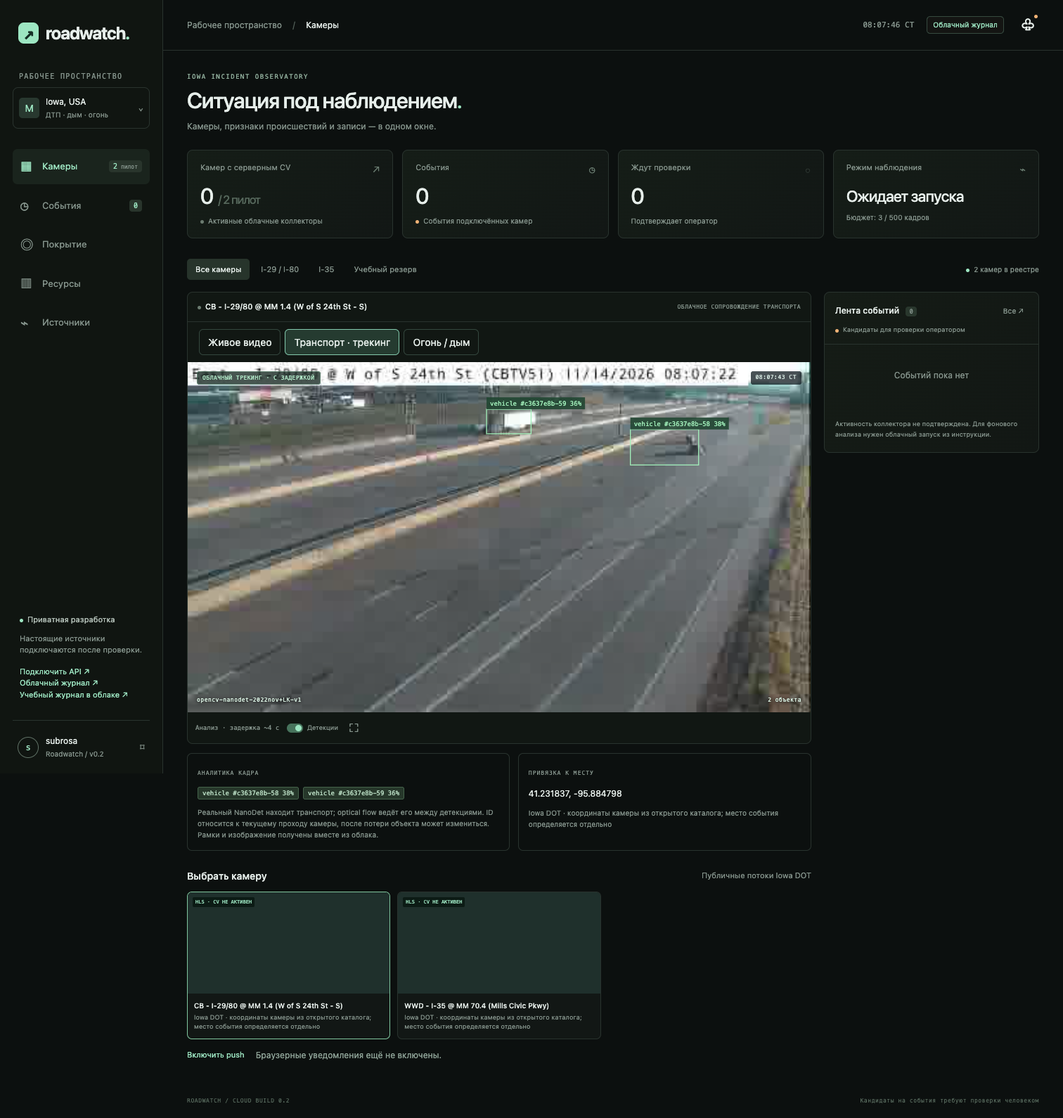
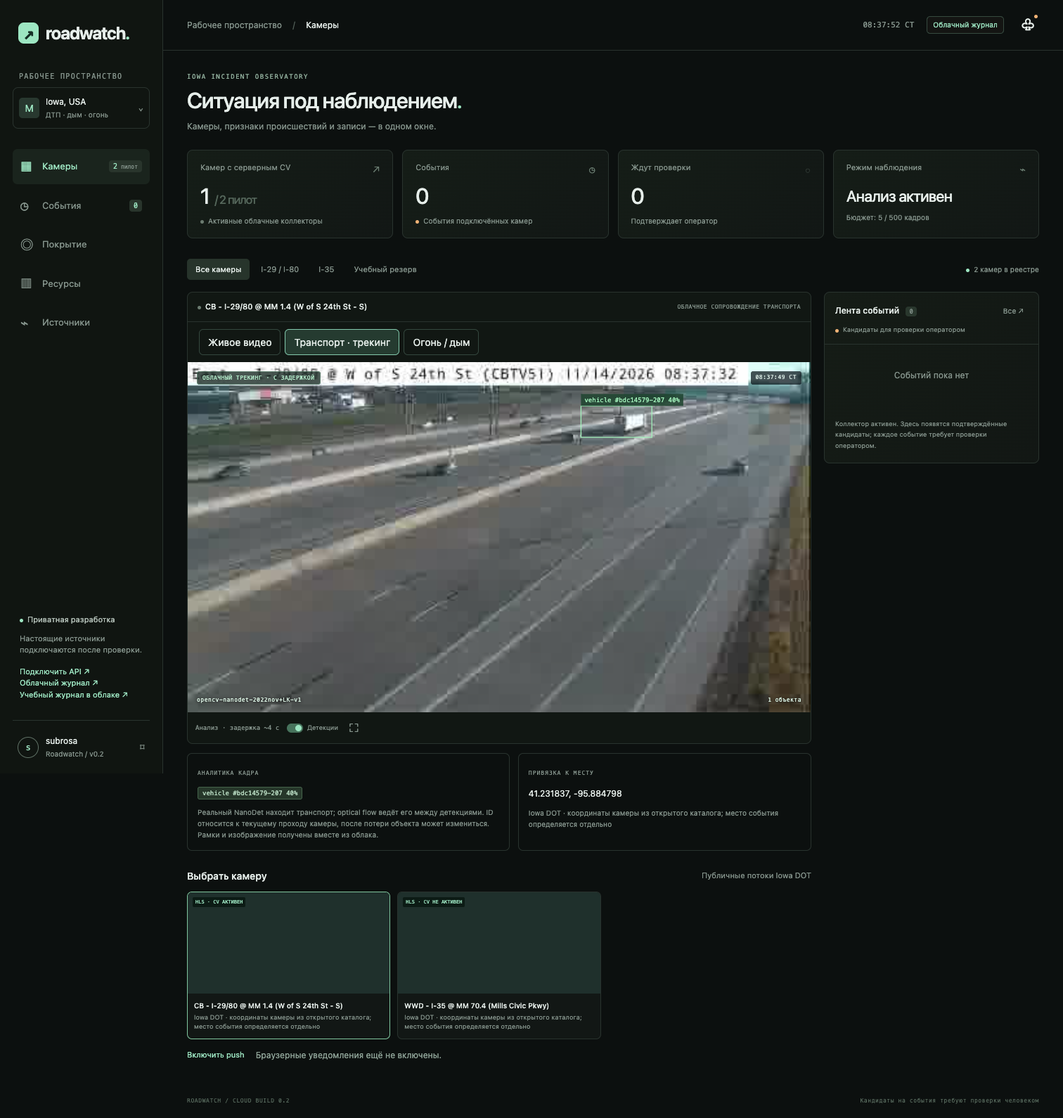
Improve vehicle coverage and frame delivery; document real live screenshots

diff --git a/web/tracking.js b/web/tracking.js
@@ -1,6 +1,6 @@
 // Playout of actual image/annotation pairs; no extrapolated vehicle positions.
 export class TrackingBuffer {
-  constructor(){this.reset();}
+  constructor({playoutDelayMs=0,maxBacklogMs=Infinity}={}){this.delay=playoutDelayMs;this.maxBacklog=maxBacklogMs;this.reset();}
   reset(){this.queue=[];this.last=-Infinity;this.anchor=null;}
   add(frames){
     for(const frame of frames){
@@ -9,12 +9,16 @@ export class TrackingBuffer {
       this.queue.push(frame);
     }
     this.queue.sort((a,b)=>Date.parse(a.observation.captured_at)-Date.parse(b.observation.captured_at));
+    if(this.queue.length&&Date.parse(this.queue.at(-1).observation.captured_at)-Date.parse(this.queue[0].observation.captured_at)>this.maxBacklog){
+      const cutoff=Date.parse(this.queue.at(-1).observation.captured_at)-this.maxBacklog;
+      this.queue=this.queue.filter(f=>Date.parse(f.observation.captured_at)>=cutoff);this.anchor=null;
+    }
     if(this.queue.length>24){this.queue=this.queue.slice(-24);this.anchor=null;}
   }
   take(now){
     if(!this.queue.length)return null;
     const first=Date.parse(this.queue[0].observation.captured_at);
-    if(!this.anchor||first-(this.anchor.at+now-this.anchor.wall)>1500)this.anchor={at:first,wall:now};
+    if(!this.anchor||first-(this.anchor.at+now-this.anchor.wall)>1500)this.anchor={at:first,wall:now+this.delay};
     const due=this.anchor.at+now-this.anchor.wall;
     let result=null;
     while(this.queue.length&&Date.parse(this.queue[0].observation.captured_at)<=due)result=this.queue.shift();

diff --git a/web/app.js b/web/app.js
@@ -4,7 +4,7 @@ import { LivePlayer, publicStream } from "./live.js";
 const $ = (id) => document.getElementById(id);
 let hosted = false;
 const playbackStates = new Map();
-const trackingBuffer=new TrackingBuffer(),viewerId=crypto.randomUUID();
+const trackingBuffer=new TrackingBuffer({playoutDelayMs:250,maxBacklogMs:750}),viewerId=crypto.randomUUID();
 let trackingStale=false;
 function renderPlayback(id, url) {
   if (selected?.id !== id) return;
@@ -310,7 +310,7 @@ async function refreshTracking(){
   }else{
    trackingBuffer.add(frames);
    $('scene-tag').textContent='ОБЛАЧНЫЙ ТРЕКИНГ · С ЗАДЕРЖКОЙ';
-   nextTrackingPoll=Date.now()+600;
+   nextTrackingPoll=Date.now()+200;
   }
   $('model-name').textContent=data.observation.model;
   $('analysis-note').textContent='Реальный NanoDet находит транспорт; optical flow ведёт его между детекциями. ID относится к текущему проходу камеры, после потери объекта может измениться. Рамки и изображение получены вместе из облака.';

diff --git a/collector/vehicles.py b/collector/vehicles.py
@@ -18,6 +18,7 @@ class VehicleDetector:
     def __init__(self,config):
         from pathlib import Path
         if hashlib.sha256(Path(config['path']).read_bytes()).hexdigest()!=config['sha256']:raise ValueError('Vehicle model hash mismatch')
+        self.new_track_threshold=float(config.get('new_track_threshold',config.get('threshold',.35)))
         self.net=NanoDet(config['path'],prob_threshold=config.get('threshold',.35))
         cv2.setNumThreads(1)
     def detect(self,image):
@@ -29,14 +30,18 @@ class VehicleDetector:
             x1,y1=max(0,(row[0]-x)/scale/w),max(0,(row[1]-y)/scale/h)
             x2,y2=min(1,(row[2]-x)/scale/w),min(1,(row[3]-y)/scale/h)
             if x2>x1 and y2>y1:result.append({'label':'vehicle','score':float(row[4]),'box':[float(x1),float(y1),float(x2-x1),float(y2-y1)]})
-        return result[:50]
+        # All vehicle classes share one label and must not duplicate each other.
+        keep=[]
+        for d in sorted(result,key=lambda d:d['score'],reverse=True):
+            if all(iou(d['box'],other['box'])<.45 for other in keep):keep.append(d)
+        return keep[:50]
 
 class VehicleTracker:
     """Detection anchoring + measured optical flow; never extrapolates lost objects."""
     def __init__(self,detector,detect_interval=.5,max_gap=1.5):
         self.detector=detector;self.interval=detect_interval;self.max_gap=max_gap;self.reset()
     def reset(self):
-        self.tracks=[];self.previous=None;self.last=None;self.last_detect=-math.inf;self.next_id=1
+        self.tracks=[];self.lost=[];self.previous=None;self.last=None;self.last_detect=-math.inf;self.next_id=1
         self.session=__import__('secrets').token_hex(4)
     def update(self,image,timestamp):
         if not math.isfinite(timestamp):raise ValueError('Invalid frame timestamp')
@@ -44,37 +49,50 @@ class VehicleTracker:
         gray=cv2.cvtColor(image,cv2.COLOR_BGR2GRAY);h,w=gray.shape
         if self.previous is not None and self.previous.shape!=gray.shape:self.reset()
         if self.previous is not None:
-            alive=[]
+            alive=[];lost=[]
             for t in self.tracks:
                 x,y,bw,bh=t['box'];mask=np.zeros_like(gray);mask[int(y*h):int((y+bh)*h),int(x*w):int((x+bw)*w)]=255
-                points=cv2.goodFeaturesToTrack(self.previous,maxCorners=15,qualityLevel=.03,minDistance=3,mask=mask)
-                if points is None or len(points)<3:continue
+                points=cv2.goodFeaturesToTrack(self.previous,maxCorners=20,qualityLevel=.01,minDistance=2,mask=mask)
+                if points is None or len(points)<3:
+                    lost.append(t);continue
                 moved,status,_=cv2.calcOpticalFlowPyrLK(self.previous,gray,points,None,winSize=(15,15),maxLevel=2)
                 back,good,_=cv2.calcOpticalFlowPyrLK(gray,self.previous,moved,None,winSize=(15,15),maxLevel=2)
                 valid=(status.reshape(-1)>0)&(good.reshape(-1)>0)&(np.linalg.norm((back-points).reshape(-1,2),axis=1)<1.5)
-                if valid.sum()<3:continue
+                if valid.sum()<3:
+                    lost.append(t);continue
                 dx,dy=np.median((moved-points).reshape(-1,2)[valid],axis=0)/[w,h]
                 nx,ny=float(np.clip(x+dx,0,1-bw)),float(np.clip(y+dy,0,1-bh))
                 t={**t,'box':[nx,ny,bw,bh],'tracking_method':'optical_flow'}
                 if timestamp-t['detected_at']<=self.max_gap:alive.append(t)
+            self.lost=[t for t in self.lost+lost if timestamp-t['detected_at']<=self.max_gap]
             self.tracks=alive
         if timestamp-self.last_detect>=self.interval:
-            detections=self.detector.detect(image);pairs=[]
-            for i,t in enumerate(self.tracks):
-                for j,d in enumerate(detections):
-                    overlap=iou(t['box'],d['box'])
-                    if overlap>.15:pairs.append((overlap,i,j))
-            assigned={};used=set()
-            for _,i,j in sorted(pairs,reverse=True):
-                if i not in used and j not in assigned:assigned[j]=self.tracks[i]['track_id'];used.add(i)
+            detections=self.detector.detect(image)
+            threshold=getattr(self.detector,'new_track_threshold',.35)
+            # High-score detections associate first. Low-score detections can
+            # recover an existing ID, but cannot create a new object on their own.
+            pool=self.tracks+self.lost;assigned={};used=set()
+            for high in (True,False):
+                pairs=[]
+                for i,t in enumerate(pool):
+                    if i in used:continue
+                    for j,d in enumerate(detections):
+                        if j in assigned or (d['score']>=threshold)!=high:continue
+                        overlap=iou(t['box'],d['box'])
+                        if overlap>.15:pairs.append((overlap,i,j))
+                for _,i,j in sorted(pairs,reverse=True):
+                    if i not in used and j not in assigned:
+                        assigned[j]=pool[i]['track_id'];used.add(i)
             fresh=[]
             for j,d in enumerate(detections):
                 ident=assigned.get(j)
-                if ident is None:ident=self.session+'-'+str(self.next_id);self.next_id+=1
+                if ident is None:
+                    if d['score']<threshold:continue
+                    ident=self.session+'-'+str(self.next_id);self.next_id+=1
                 fresh.append({**d,'track_id':ident,'detected_at':timestamp,'tracking_method':'detector'})
-            # A missed detection does not erase a track with measured,
-            # forward/backward-consistent flow, bounded by max_gap.
             fresh.extend(t for i,t in enumerate(self.tracks) if i not in used and timestamp-t['detected_at']<=self.max_gap)
+            # Lost, unmeasured positions are kept for matching only, never drawn.
+            self.lost=[t for i,t in enumerate(pool) if i>=len(self.tracks) and i not in used and timestamp-t['detected_at']<=self.max_gap]
             self.tracks=fresh[:50];self.last_detect=timestamp
         self.previous=gray;self.last=timestamp
         return [{k:v for k,v in t.items() if k!='detected_at'} for t in self.tracks]

diff --git a/tools/compare-tracking.py b/tools/compare-tracking.py
@@ -1,0 +1,39 @@
+"""Compare real tracking on one recorded clip; never contacts the private API.
+
+Baseline source must be an explicitly selected, trusted commit in this repo.
+This measures output coverage and cost, not precision/recall without labels.
+"""
+import argparse,hashlib,importlib.util,json,platform,re,subprocess,sys,tempfile,time
+from pathlib import Path
+import cv2
+import imageio_ffmpeg
+import numpy as np
+ROOT=Path(__file__).resolve().parent.parent
+sys.path.insert(0,str(ROOT))
+from collector import vehicles
+p=argparse.ArgumentParser()
+p.add_argument('--video',required=True);p.add_argument('--model',required=True)
+p.add_argument('--baseline-ref',required=True);p.add_argument('--output',required=True)
+a=p.parse_args()
+if not re.fullmatch(r'[a-f0-9]{7,40}',a.baseline_ref):raise ValueError('Select a trusted commit SHA')
+lock=json.loads((ROOT/'collector/botkeep/vehicle.lock.json').read_text())
+results=[]
+with tempfile.TemporaryDirectory(prefix='roadwatch-comparison-') as tmp:
+ root=Path(tmp);source=root/'baseline.py'
+ source.write_bytes(subprocess.check_output(['git','show',a.baseline_ref+':collector/vehicles.py'],cwd=ROOT))
+ spec=importlib.util.spec_from_file_location('collector.comparison_baseline',source)
+ baseline=importlib.util.module_from_spec(spec);spec.loader.exec_module(baseline)
+ for folder,opts in [('default',[]),('q3',['-q:v','3'])]:
+  (root/folder).mkdir()
+  subprocess.run([imageio_ffmpeg.get_ffmpeg_exe(),'-hide_banner','-loglevel','error','-y','-i',a.video,'-t','25','-vf','fps=4',*opts,str(root/folder/'%03d.jpg')],check=True,timeout=60)
+ for name,module,folder,threshold in [('previous',baseline,'default',.35),('jpeg_only',baseline,'q3',.35),('tuned',vehicles,'q3',.18)]:
+  tracker=module.VehicleTracker(module.VehicleDetector({**lock,'path':a.model,'threshold':threshold}),detect_interval=.65)
+  rows=[];sizes=[];cpu=[]
+  for i,path in enumerate(sorted((root/folder).glob('*.jpg'))):
+   image=cv2.imread(str(path));start=time.process_time();tracks=tracker.update(image,i*.25)
+   cpu.append(time.process_time()-start);sizes.append(path.stat().st_size);rows.append(tracks)
+  if len(rows)<5:raise ValueError('Insufficient recorded frames')
+  results.append({'profile':name,'frames':len(rows),'frames_with_tracks':sum(bool(r) for r in rows),'track_observations':sum(map(len,rows)),'detector_observations':sum(t['tracking_method']=='detector' for r in rows for t in r),'optical_flow_observations':sum(t['tracking_method']=='optical_flow' for r in rows for t in r),'distinct_ids':len({t['track_id'] for r in rows for t in r}),'jpeg_bytes_median':float(np.median(sizes)),'cpu_ms_per_frame':float(np.mean(cpu[4:])*1000),'quality_validated':False})
+report={'scope':'Recorded sample; no production writes or labelled accuracy benchmark','sample_sha256':hashlib.sha256(Path(a.video).read_bytes()).hexdigest(),'model_sha256':lock['sha256'],'fps':4,'detector_interval_seconds':.65,'baseline_commit':a.baseline_ref,'environment':{'system':platform.system(),'machine':platform.machine()},'profiles':results,'false_positive_rate_measured':False,'recall_measured':False}
+Path(a.output).write_text(json.dumps(report,indent=2)+'\n')
+print(json.dumps(report))

diff --git a/collector/collector.py b/collector/collector.py
@@ -147,7 +147,7 @@ def recording_command(url, directory, fps, ffmpeg="ffmpeg"):
             "-map", "0:v:0", "-an", "-c:v", "copy", "-f", "segment", "-segment_time", "2",
             "-segment_list", str(directory / "segments.csv"), "-segment_list_size", "30", "-segment_wrap", "30",
             "-segment_format", "mpegts", str(directory / "segment-%03d.ts"),
-            "-map", "0:v:0", "-an", "-vf", f"fps={fps},scale='min(640,iw)':-2", "-f", "image2", "-update", "1", "-atomic_writing", "1", str(directory / "frame.jpg")]
+            "-map", "0:v:0", "-an", "-vf", f"fps={fps},scale='min(640,iw)':-2", "-q:v", "3", "-f", "image2", "-update", "1", "-atomic_writing", "1", str(directory / "frame.jpg")]
 
 
 async def evidence(event, directory, api, ffmpeg, pre, post, outbox=None):
@@ -203,6 +203,12 @@ async def evidence(event, directory, api, ffmpeg, pre, post, outbox=None):
                 await asyncio.to_thread(outbox.enqueue,event['id'],output)
             else:
                 await asyncio.to_thread(api.post, f'/api/events/{event["id"]}/evidence', data=output.read_bytes(), headers={"Content-Type": "video/mp4"})
+
+
+def analyze_frame(tracker,detector,jpeg,frame_time,do_incident):
+    image=cv2.imdecode(np.frombuffer(jpeg,np.uint8),cv2.IMREAD_COLOR) if tracker else None
+    tracks=tracker.update(image,frame_time) if tracker else []
+    return tracks,detector.infer(jpeg) if do_incident else []
 
 
 async def run_camera(camera, detector, api, settings, inference_lock, cpu_budget, state, publisher, outbox):
@@ -262,10 +268,9 @@ async def run_camera(camera, detector, api, settings, inference_lock, cpu_budget
                 if cpu_budget["seconds"] >= settings.get("daily_inference_cpu_seconds", 240):
                     raise RuntimeError("Collector stopped: configured inference CPU budget exhausted")
                 start = time.process_time()
-                image=cv2.imdecode(np.frombuffer(jpeg,np.uint8),cv2.IMREAD_COLOR) if tracker else None
-                tracks=tracker.update(image,frame_mtime) if tracker else []
                 do_incident=frame_mtime-last_incident>=settings.get('incident_interval_seconds',0)
-                detections=detector.infer(jpeg) if do_incident else []
+                # OpenCV must not block delivery/leases/heartbeats on the event loop.
+                tracks,detections=await asyncio.to_thread(analyze_frame,tracker,detector,jpeg,frame_mtime,do_incident)
                 if do_incident:last_incident=frame_mtime
                 cpu_budget["seconds"] += time.process_time() - start
                 ledger = Path(settings["buffer_root"]) / "cpu-budget.json"

diff --git a/tools/test_vehicles.py b/tools/test_vehicles.py
@@ -27,4 +27,23 @@ class Tests(unittest.TestCase):
         self.assertEqual(len(t.update(f,0)),1);self.assertEqual(t.update(f,.2),[])
     def test_hash_is_required_before_loading_weights(self):
         with self.assertRaises(ValueError):VehicleDetector({'path':__file__,'sha256':'0'*64})
+    def test_low_score_recovers_existing_id_but_never_seeds_a_background_track(self):
+        class Detector:
+            new_track_threshold=.25
+            score=.4
+            def detect(self,image):return [{'label':'vehicle','score':self.score,'box':[.2,.2,.2,.2]}]
+        d=Detector();t=VehicleTracker(d);f=np.zeros((200,200,3),np.uint8)
+        first=t.update(f,0)[0]
+        self.assertEqual(t.update(f,.2),[],'textureless lost positions must not be drawn')
+        d.score=.19
+        recovered=t.update(f,.6)[0]
+        self.assertEqual(first['track_id'],recovered['track_id'])
+        self.assertEqual(recovered['tracking_method'],'detector')
+        t.reset();self.assertEqual(t.update(f,1),[],'weak unmatched detections must not create IDs')
+    def test_vehicle_class_duplicates_are_suppressed(self):
+        d=VehicleDetector.__new__(VehicleDetector)
+        class Net:
+            def infer(self,image):return np.array([[50,50,100,100,.5,2],[51,51,101,101,.4,7],[200,200,230,230,.3,2]])
+        d.net=Net();out=d.detect(np.zeros((416,416,3),np.uint8))
+        self.assertEqual(len(out),2);self.assertEqual(out[0]['score'],.5)
 if __name__=='__main__':unittest.main(verbosity=2)

diff --git a/docs/TRACKING_TUNING.md b/docs/TRACKING_TUNING.md
@@ -1,0 +1,44 @@
+# Пропуски транспорта и задержка: исправление 14 ноября 2026
+
+## Что обнаружено
+
+Фактический Hostrix всё ещё передавал одиночные кадры старого профиля 5 fps. Сервер обрабатывал больше кадров, чем успевал отправлять отдельными HTTP-запросами. Короткие детекции могли не попасть на экран. Предыдущее исправление сайта устранило пустой экран, но не заменило код коллектора на аккаунте владельца.
+
+FFmpeg также оставлял JPEG quality автоматическим. В сравнительном образце медиана файла оказалась 5768 байт при исходном разрешении 480×270; при явном q=3 — 25669 байт. Это дополнительная потеря мелких деталей перед детектором. Низкое исходное разрешение и задержка HLS остаются свойствами источника.
+
+OpenCV выполнялся прямо в asyncio loop: на слабом CPU это задерживало HTTP/leases/heartbeat. Теперь анализ идёт через asyncio.to_thread под тем же единственным inference lock; вычислительный бюджет и gates сохраняются.
+
+## Что изменено
+
+- Hostrix — 4 fps; JPEG q=3 без upscale. Новых зависимостей и весов нет.
+- Детектор возвращает candidates от score 0.18. Новый ID создаётся только от 0.25. Более слабая рамка может восстановить существующий ID при геометрическом совпадении, но сама объект не создаёт. Высокие scores сопоставляются первыми. Подход использует идею low-score association из [ByteTrack](https://arxiv.org/abs/2110.06864), но это собственный небольшой LK-трекер, не реализация полного ByteTrack.
+- Пересекающиеся vehicle-рамки разных классов дополнительно подавляются NMS. Для optical flow — до 20 углов, qualityLevel 0.01, minDistance 2, прежняя проверка вперёд/назад. Если движения измерить нельзя, рамка не рисуется. Потерянная позиция хранится до 1.5 с только для восстановления ID следующей настоящей детекцией.
+- Worker сохраняет окно до 12 реальных кадров / 3 секунд. Оно объединяет соседние пакеты, поэтому опрос браузера не теряет весь промежуточный пакет. Лимит JSON 800 КБ; квота учитывает только новые кадры, повтор запроса не оплачивается дважды.
+- Браузер опрашивает через 200 мс после ответа, воспроизводит исходные временные метки с 250 мс буфером джиттера. При старте отбрасывает накопление старше 750 мс от последнего кадра. Это не генерация промежуточных картинок или координат.
+
+## Измеренное сравнение одной записи
+
+Публичная CBTV51: 14.11.2026, 08:27:53–08:28:18 CT, 25 секунд, 100 кадров при 4 fps, detector interval 0.65 с. Настоящие закреплённые ONNX-веса. [Машиночитаемый результат и хеш образца](tracking-comparison.json).
+
+| Профиль | Кадров хотя бы с одним треком | Всего наблюдений треков | Из них optical flow |
+| --- | ---: | ---: | ---: |
+| Предыдущий | 20 / 100 | 27 | 11 |
+| Только JPEG q=3 | 23 / 100 | 29 | 7 |
+| JPEG + новые правила трекера | 58 / 100 | 115 | 68 |
+
+Это **не recall 58% и не доказательство распознавания всех машин**: полной ручной разметки и измерения false positives нет. Большее число ID также не доказывает лучшую устойчивость идентичности. На коротком образце видно больше настоящих обнаружений, но качество нужно оценивать отдельно. CPU сравнения измерен на Darwin arm64 для регрессии, а не как ресурс Hostrix; допуск облачного исполнения проверяется отдельно в Linux 0.5 CPU / 512 МиБ.
+
+Воспроизведение с собственным сохранённым образцом:
+
+```sh
+python tools/compare-tracking.py --video sample.mp4 --model vehicles.onnx \
+  --baseline-ref c7351b8 --output comparison.json
+```
+
+## Развёртывание и честные пределы
+
+Фронт/API публикуются отдельно. Новый трекер, JPEG и неблокирующий collector включатся после Upload/Unzip свежего roadwatch-hostrix-fix.zip на Hostrix. Не использовать Redeploy; существующие пакеты, модели и secrets сохраняются. Команда прежняя, ROADWATCH_MODE=run.
+
+На бесплатном 0.5 CPU цель — 4 fps, не плавность 25–30 fps. Отдельная квота 24000 кадров просмотра в сутки даёт примерно 100 минут просмотра при полных 4 fps; фоновые fire/smoke, трекинг и обработка событий продолжаются независимо от вкладки. Ни это исправление, ни скриншоты не подтверждают accuracy ДТП или безотказность 24/7.
+
+Скриншоты README сняты с реального опубликованного фронта и работающего Hostrix. Они подтверждают наличие изображения и согласованных рамок в этот момент, а не полноту детектора или применение нового пакета на сервере.
